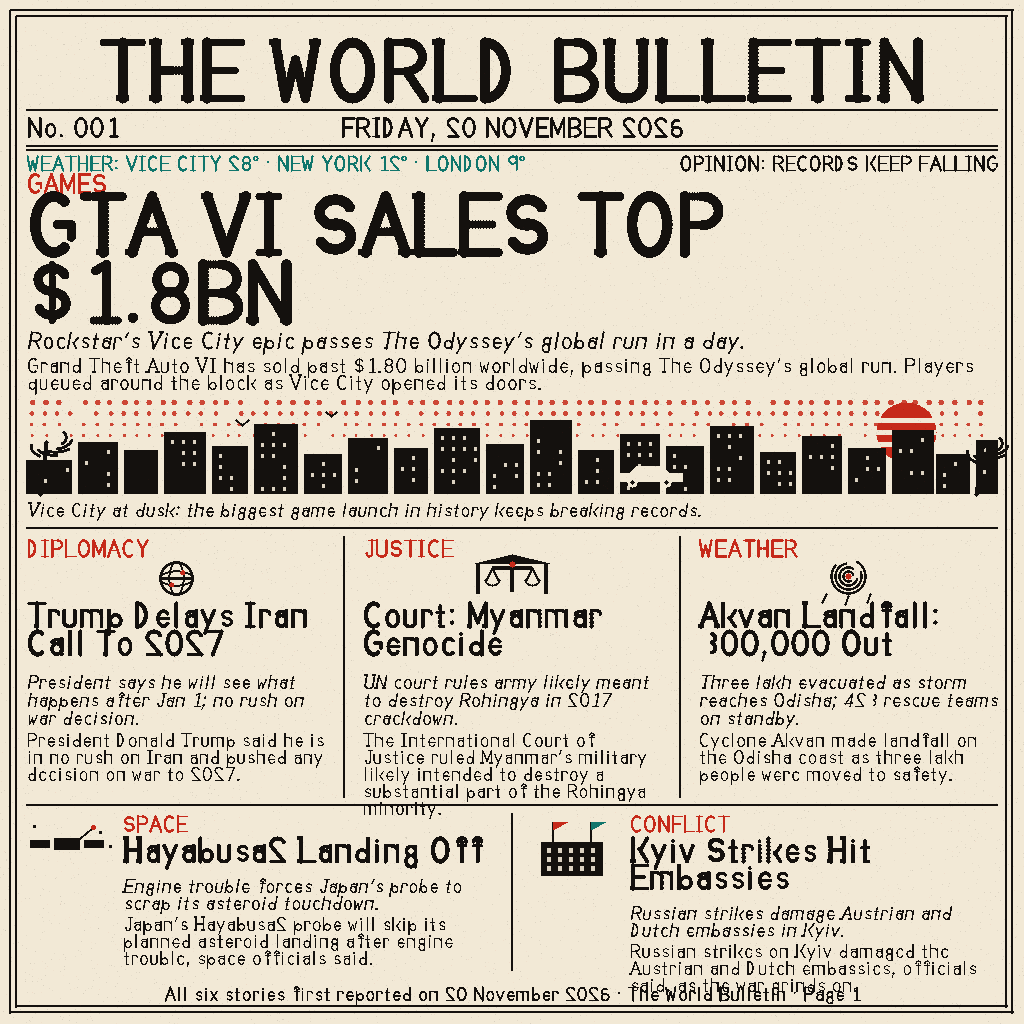
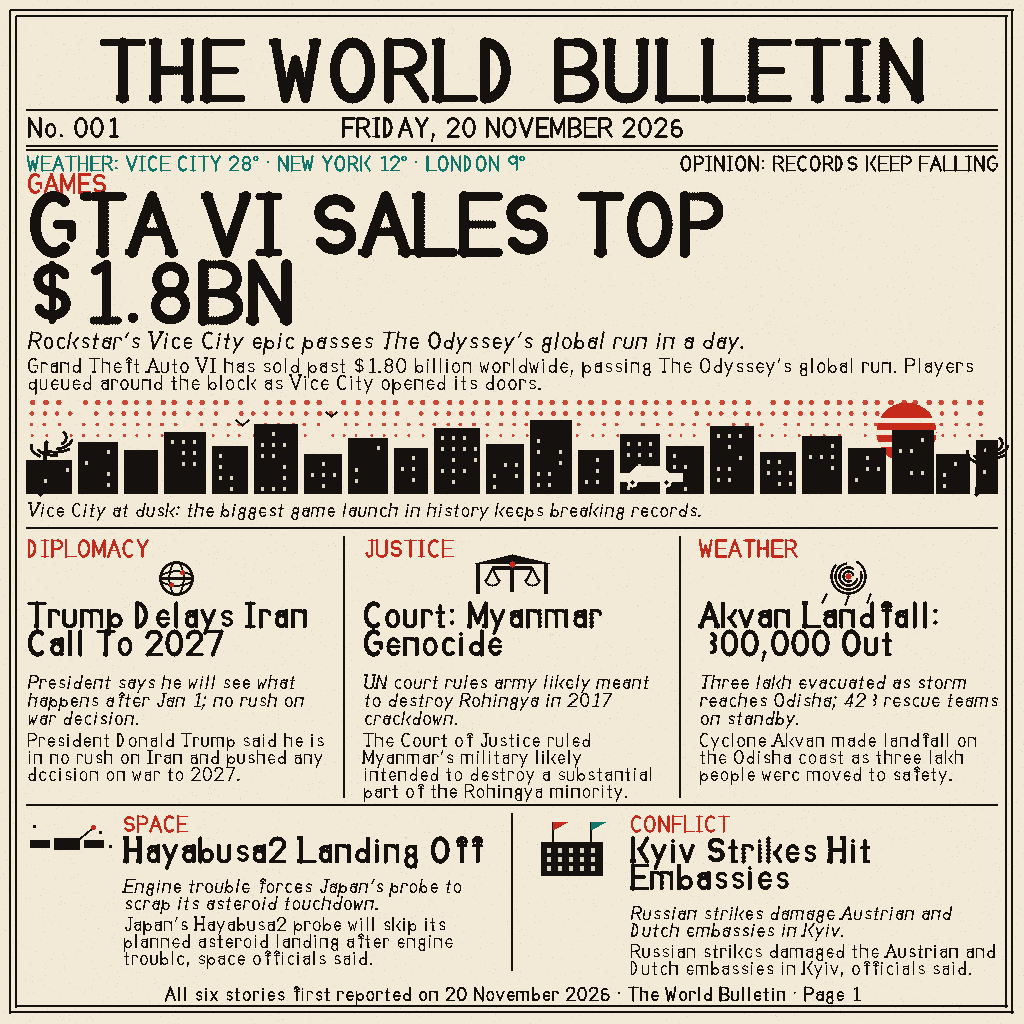
news-image 20 Nov bulletin

diff --git a/main.ts b/main.ts
@@ -277,7 +277,7 @@ GLYPHS["z"] = { adv: 520, ops: [L(110, 480, 430, 480, 85), L(430, 480, 110, 0, 1
 // ---------- digits: full closed bowls; 9 bowl on top, 6 bowl at bottom ----------
 GLYPHS["0"] = { adv: 620, ops: [O(320, 350, 210, 350, 110)] };
 GLYPHS["1"] = { adv: 560, ops: [L(240, 620, 380, 700, 100), L(380, 700, 380, 0, 110), L(220, 0, 520, 0, 90)] };
-GLYPHS["2"] = { adv: 620, ops: [A(320, 520, 200, 180, 20, 200, 110), L(132, 458, 520, 0, 110), L(120, 0, 540, 0, 90)] };
+GLYPHS["2"] = { adv: 620, ops: [A(320, 520, 200, 180, 180, -35, 110), L(484, 417, 120, 0, 110), L(120, 0, 540, 0, 90)] };
 GLYPHS["3"] = { adv: 620, ops: [A(320, 500, 185, 150, 300, 420, 110), A(320, 200, 195, 160, 300, 420, 110), L(413, 370, 418, 339, 100)] };
 GLYPHS["4"] = { adv: 620, ops: [L(430, 700, 150, 140, 100), L(120, 180, 520, 180, 90), L(430, 700, 430, 0, 110)] };
 GLYPHS["5"] = { adv: 620, ops: [L(140, 700, 500, 700, 100), L(140, 700, 140, 430, 100), L(140, 430, 160, 300, 95), A(320, 210, 185, 180, 150, 390, 110)] };
@@ -597,7 +597,7 @@ function main(): void {
   // three columns
   const cols = [
     { x: 26, label: "DIPLOMACY", head: "Trump Delays Iran Call To 2027", deck: "President says he will see what happens after Jan 1; no rush on war decision.", body: "President Donald Trump said he is in no rush on Iran and pushed any decision on war to 2027.", illo: "globe" },
-    { x: 362, label: "JUSTICE", head: "Court: Myanmar Genocide", deck: "UN court rules army likely meant to destroy Rohingya in 2017 crackdown.", body: "The International Court of Justice ruled Myanmar's military likely intended to destroy a substantial part of the Rohingya minority.", illo: "scales" },
+    { x: 362, label: "JUSTICE", head: "Court: Myanmar Genocide", deck: "UN court rules army likely meant to destroy Rohingya in 2017 crackdown.", body: "The Court of Justice ruled Myanmar's military likely intended to destroy a substantial part of the Rohingya minority.", illo: "scales" },
     { x: 698, label: "WEATHER", head: "Akvan Landfall: 300,000 Out", deck: "Three lakh evacuated as storm reaches Odisha; 423 rescue teams on standby.", body: "Cyclone Akvan made landfall on the Odisha coast as three lakh people were moved to safety.", illo: "cyclone" },
   ];
   vline(344, 536, 262, 1, INK);
@@ -617,7 +617,7 @@ function main(): void {
   // bottom row: two stories, illustration left, text right
   const bottom = [
     { x: 26, label: "SPACE", head: "Hayabusa2 Landing Off", deck: "Engine trouble forces Japan's probe to scrap its asteroid touchdown.", body: "Japan's Hayabusa2 probe will skip its planned asteroid landing after engine trouble, space officials said.", illo: "craft" },
-    { x: 533, label: "CONFLICT", head: "Kyiv Strikes Hit Embassies", deck: "Russian strikes damage Austrian and Dutch embassies in Kyiv.", body: "Russian strikes on Kyiv damaged the Austrian and Dutch embassies, officials said, as the war grinds on.", illo: "embassy" },
+    { x: 533, label: "CONFLICT", head: "Kyiv Strikes Hit Embassies", deck: "Russian strikes damage Austrian and Dutch embassies in Kyiv.", body: "Russian strikes damaged the Austrian and Dutch embassies in Kyiv, officials said.", illo: "embassy" },
   ];
   vline(512, 813, 158, 1, INK);
   for (const b of bottom) {
